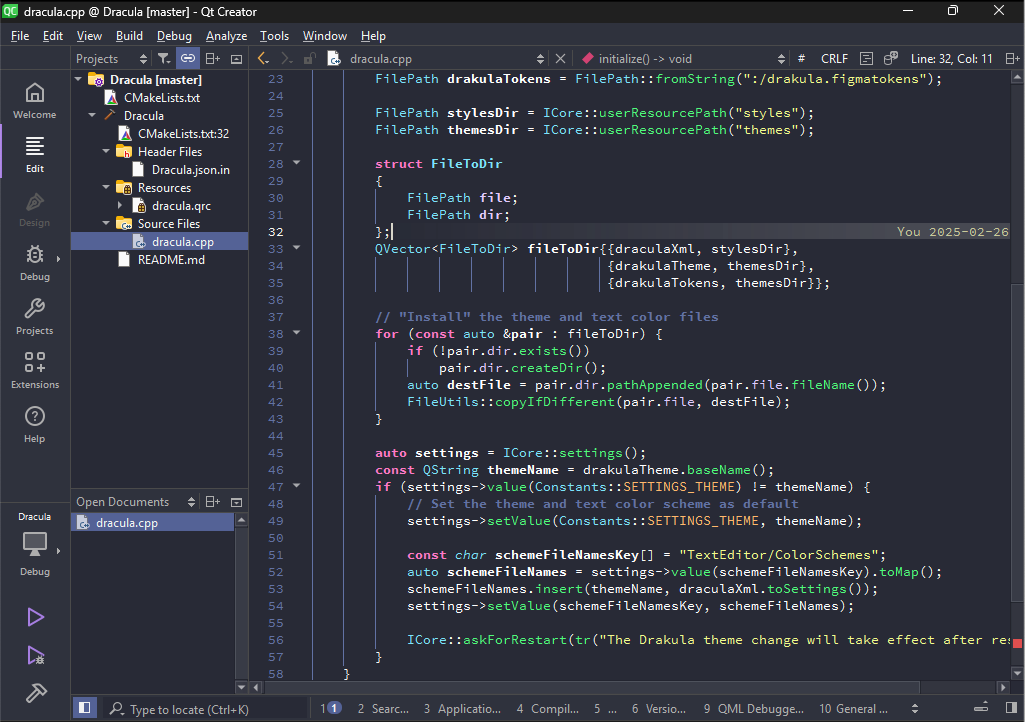
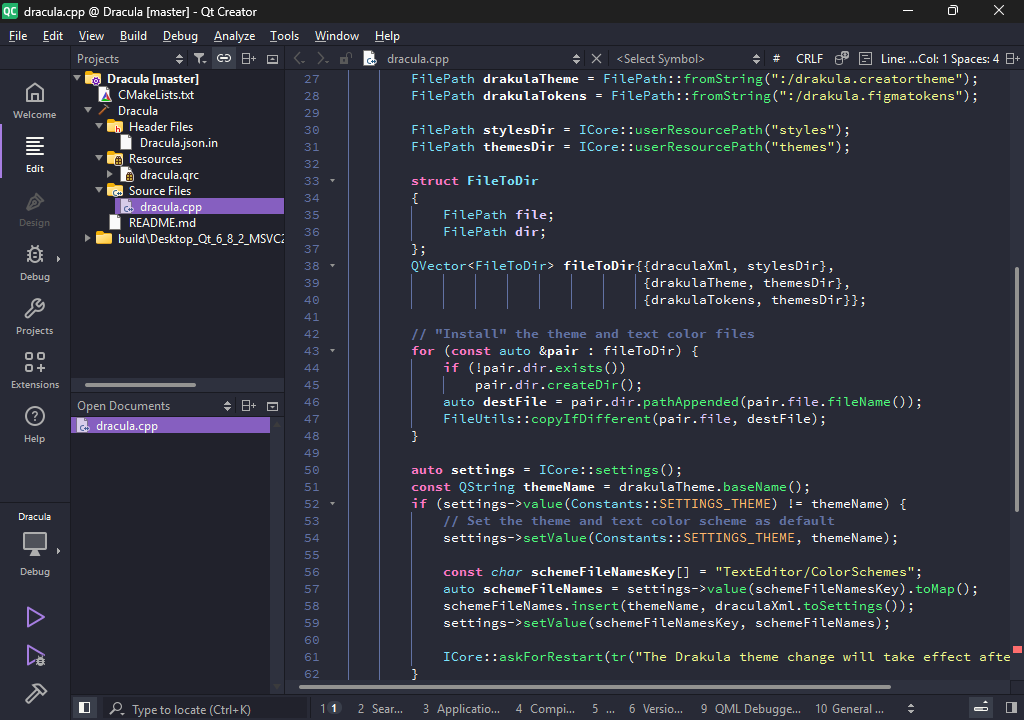
Update to Qt Creator 16.0
Used for "Token_Notification_*" the colors from the terminal.

Applied the same style that "OneDark Pro" theme is using. Namely having
the toolbar colors gray as the "Dark (2024)" theme, and for
"PaletteHighlight*" the "Token_Accent*" values.

Also bundle the Phantom QStyle to replace the Fusion style.

The usage of Phantom QStyle can be turned off by setting
QTCREATOR_USE_DEFAULT_STYLE to 1.

diff --git a/dracula.cpp b/dracula.cpp
@@ -1,9 +1,14 @@
 #include <coreplugin/coreconstants.h>
 #include <coreplugin/icontext.h>
 #include <coreplugin/icore.h>
+#include <coreplugin/manhattanstyle.h>
 #include <extensionsystem/iplugin.h>
 #include <utils/filepath.h>
 #include <utils/fileutils.h>
+
+#include <phantom/phantomstyle.h>
+
+#include <QApplication>
 
 using namespace Core;
 using namespace Utils;
@@ -54,6 +59,15 @@ public:
             settings->setValue(schemeFileNamesKey, schemeFileNames);
 
             ICore::askForRestart(tr("The Drakula theme change will take effect after restart."));
+        }
+
+        const auto *proxyStyle = qobject_cast<QProxyStyle *>(QApplication::style());
+        const bool havePhantom = proxyStyle && proxyStyle->baseStyle()->objectName() == "Phantom";
+        if (!havePhantom && !qEnvironmentVariableIsSet("QTCREATOR_USE_DEFAULT_STYLE")) {
+            auto manhattanStyle = new ManhattanStyle(QApplication::style()->name());
+            manhattanStyle->setBaseStyle(new PhantomStyle);
+
+            QApplication::setStyle(manhattanStyle);
         }
     }
 };
